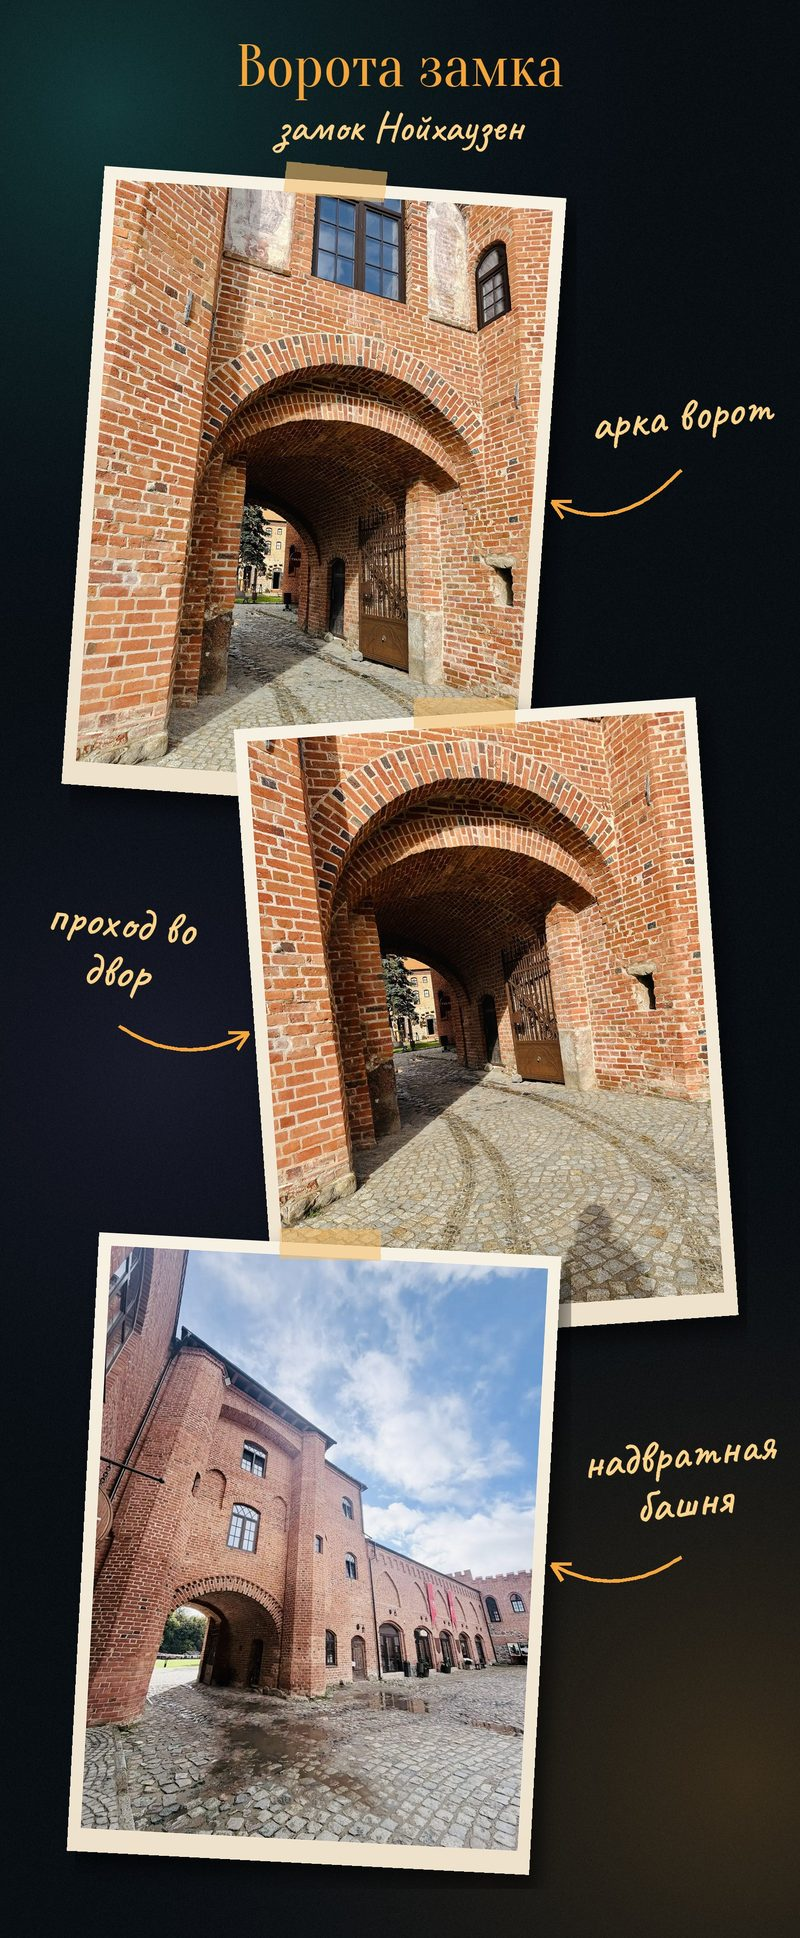
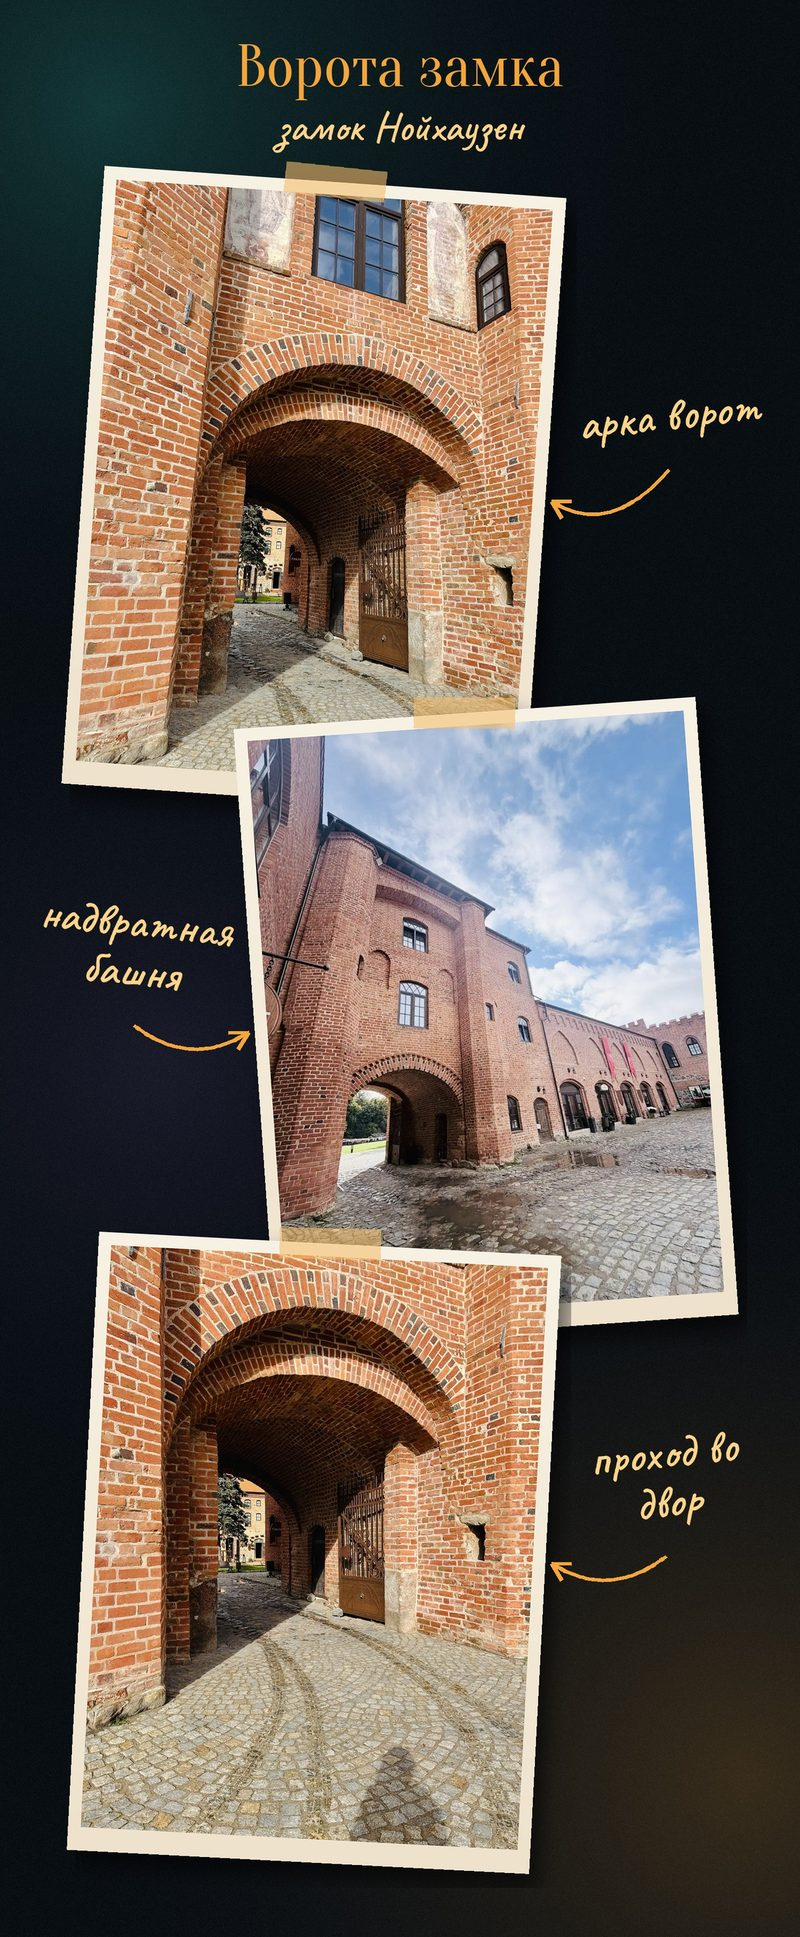
Альбом «Калининград»: страница «Ворота замка» — надвратная башня в центре
По просьбе: сверху «арка ворот», в центре «надвратная башня», снизу «проход во двор».

Claude-Session: https://claude.ai/code/session_01BUmNQ2Kk9fTi5P6tnA3gYJ

diff --git a/kaliningrad/album/index.html b/kaliningrad/album/index.html
@@ -681,7 +681,7 @@ body.picking .wrap{padding-bottom:calc(var(--nav-h) + 230px + env(safe-area-inse
  {"id": "d2-85", "day": 2, "src": "photos/d2-85.jpg", "thumb": "photos/t/d2-85.jpg", "w": 1200, "h": 2906, "place": "neuh", "title": "Я и барон Мюнхгаузен", "date": "2026-10-12", "collage": true},
  {"id": "d2-19", "day": 2, "src": "photos/d2-19.jpg", "thumb": "photos/t/d2-19.jpg", "w": 1500, "h": 2000, "place": "neuh", "title": "С мамулей: «Улыбайтесь, господа!»", "date": "2026-10-12"},
  {"id": "d2-20", "day": 2, "src": "photos/d2-20.jpg", "thumb": "photos/t/d2-20.jpg", "w": 1500, "h": 2000, "place": "neuh", "title": "Селфи с мамулей во дворе Нойхаузена", "date": "2026-10-12"},
- {"id": "d2-86", "day": 2, "src": "photos/d2-86.jpg", "thumb": "photos/t/d2-86.jpg", "w": 1200, "h": 2906, "place": "neuh", "title": "Ворота замка", "date": "2026-10-12", "collage": true},
+ {"id": "d2-86", "day": 2, "src": "photos/d2-86.jpg?v=2", "thumb": "photos/t/d2-86.jpg?v=2", "w": 1200, "h": 2906, "place": "neuh", "title": "Ворота замка", "date": "2026-10-12", "collage": true},
  {"id": "d2-50", "day": 2, "type": "video", "src": "photos/d2-50.mp4?v=2", "poster": "photos/d2-50.jpg", "thumb": "photos/t/d2-50.jpg", "w": 720, "h": 1280, "dur": 5.5, "muted": true, "place": "neuh", "title": "Надвратная башня снизу вверх", "date": "2026-10-12"},
  {"id": "d2-23", "day": 2, "src": "photos/d2-23.jpg", "thumb": "photos/t/d2-23.jpg", "w": 2000, "h": 452, "place": "neuh", "title": "Панорама двора замка", "date": "2026-10-12"},
  {"id": "d2-87", "day": 2, "src": "photos/d2-87.jpg", "thumb": "photos/t/d2-87.jpg", "w": 1200, "h": 2906, "place": "neuh", "title": "Рассказ гида", "date": "2026-10-12", "collage": true},
